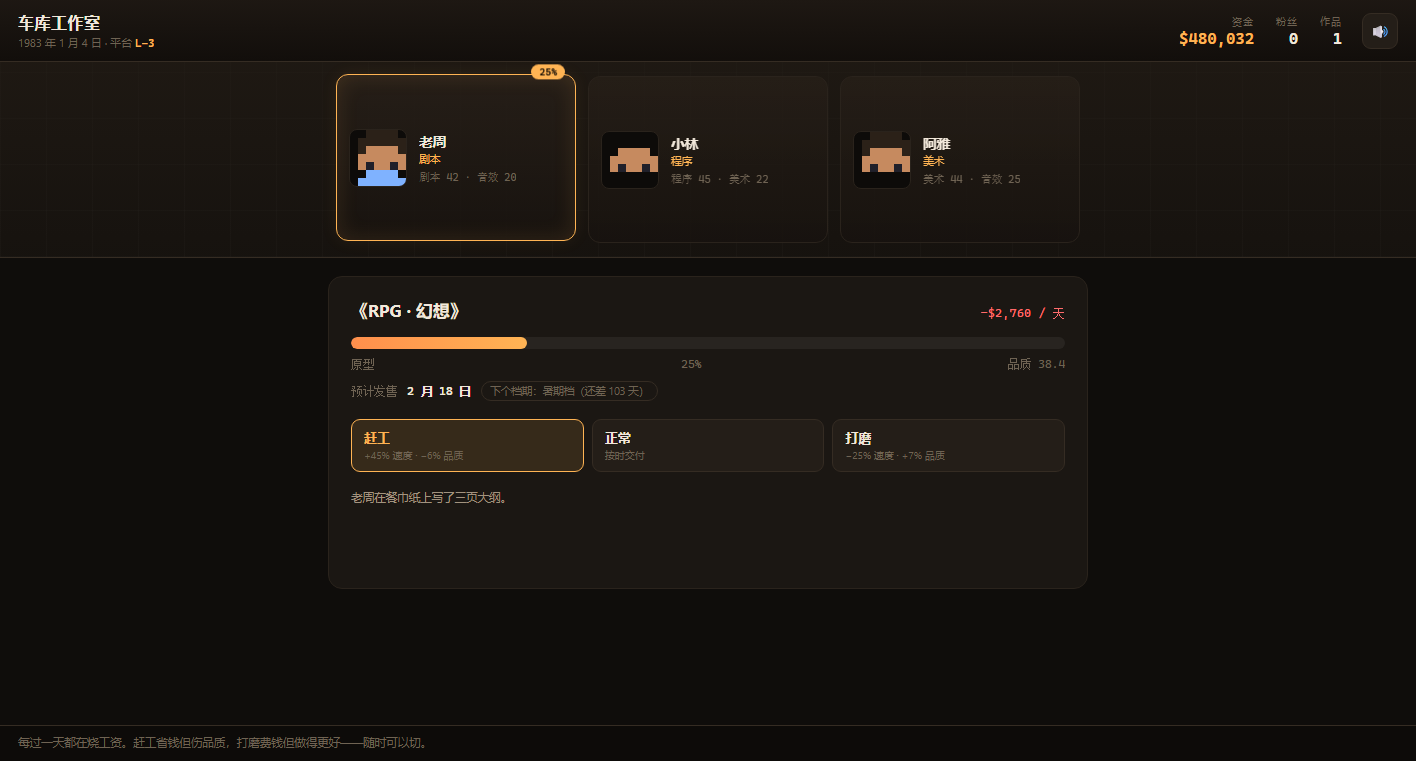
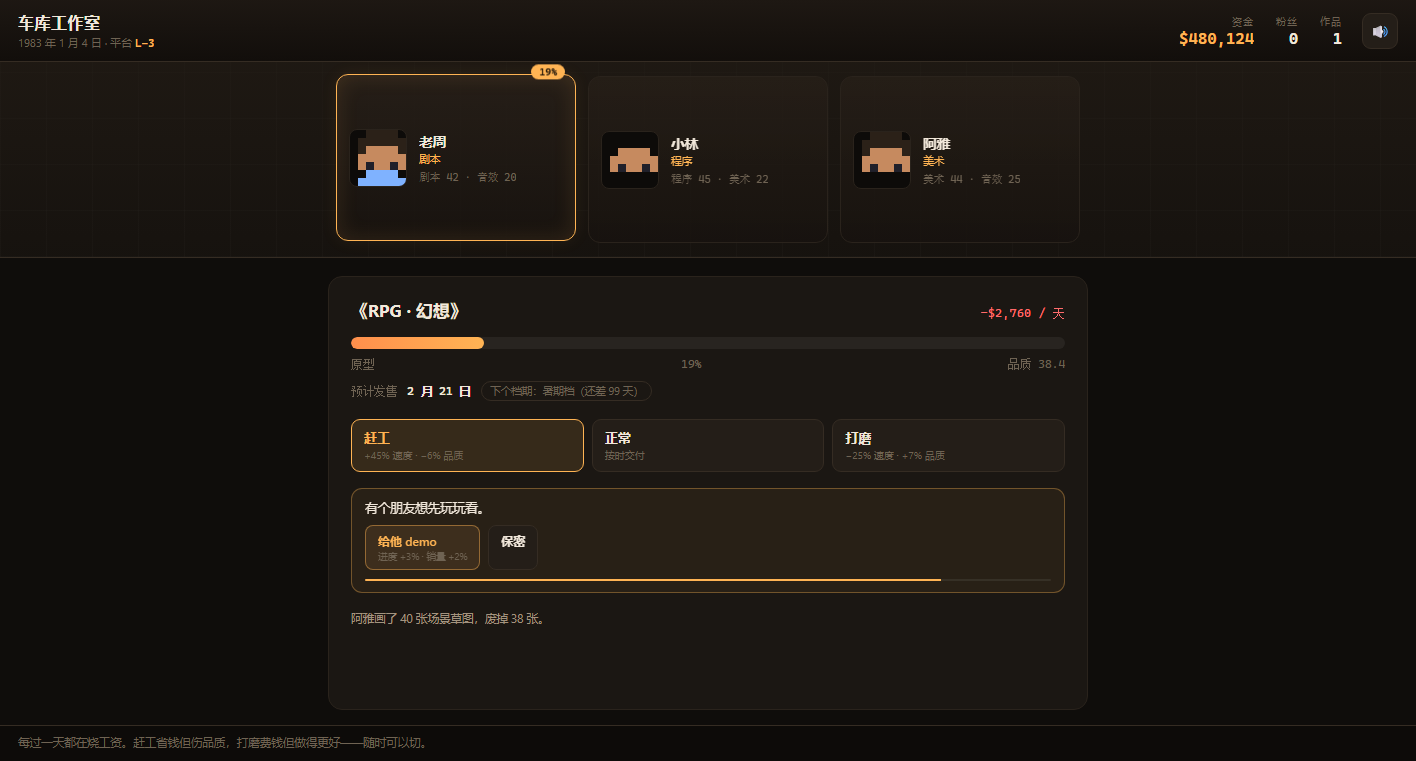
开发期小决定：8 个可选微事件，6 秒过期
- 开发到 15%/52%/88% 时出现，不打断、不惩罚错过
- 影响品质/进度/销量/金钱，全部写进开发日志
- 事件触发时自动清理，避免叠加
- 96 项引擎测试 + 42 项浏览器测试（直接跑 file://）

Changed region(s): [[0.2486, 0.6347, 0.7458, 0.816], [0.3418, 0.4231, 0.3729, 0.4836], [0.8701, 0.0302, 0.9011, 0.0604]]

diff --git a/js/config.js b/js/config.js
@@ -210,6 +210,76 @@
     }
   ];
 
+  /* ---------------- 小决定 ----------------
+   * 开发期间随机出现，不打断流程，几秒不理会自动消失。
+   * 纯可选：不选没有任何惩罚，选了有小收益也有小代价。 */
+  GD.MICRO = [
+    {
+      id: 'polish',
+      text: '小林说战斗手感还能再调调。',
+      options: [
+        { label: '让他改', quality: 3, progress: -2, tip: '品质 +3% · 进度 −2%', result: '小林把战斗手感重做了一遍，凌晨三点发来一句「爽了」。' },
+        { label: '先这样' }
+      ]
+    },
+    {
+      id: 'art',
+      text: '阿雅想给主角加一套走路动画，需要块新绘图板。',
+      options: [
+        { label: '买', cost: 8000, quality: 2, tip: '花 $8,000 · 品质 +2%', result: '新绘图板第二天就到了。阿雅画了一整天。' },
+        { label: '以后再说' }
+      ]
+    },
+    {
+      id: 'cut',
+      text: '老周提议砍掉一条支线，说没人会走。',
+      options: [
+        { label: '砍掉', progress: 4, quality: -2, tip: '进度 +4% · 品质 −2%', result: '支线被删了。老周在文档里留了一行「已归档」。' },
+        { label: '保留' }
+      ]
+    },
+    {
+      id: 'coffee',
+      text: '连熬三天，组里的气氛不太对。',
+      options: [
+        { label: '请全组吃顿好的', cost: 4000, quality: 1, tip: '花 $4,000 · 品质 +1%', result: '一顿火锅之后，办公室又有了笑声。' },
+        { label: '继续' }
+      ]
+    },
+    {
+      id: 'music',
+      text: '音效师说主题曲还能再来一版。',
+      options: [
+        { label: '再改一版', quality: 2, progress: -3, tip: '品质 +2% · 进度 −3%', result: '第三版主题曲定稿。前两版其实也没人听过。' },
+        { label: '用现在的' }
+      ]
+    },
+    {
+      id: 'demo',
+      text: '有个朋友想先玩玩看。',
+      options: [
+        { label: '给他 demo', progress: 3, sales: 2, tip: '进度 +3% · 销量 +2%', result: '朋友玩了两小时，提了 40 条建议，其中 3 条有用。' },
+        { label: '保密' }
+      ]
+    },
+    {
+      id: 'bugs',
+      text: '顺手能修掉几个小 bug。',
+      options: [
+        { label: '修', quality: 2, progress: -2, tip: '品质 +2% · 进度 −2%', result: '修完发现又冒出两个。经典。' },
+        { label: '留着' }
+      ]
+    },
+    {
+      id: 'fishing',
+      text: '有人提议加个钓鱼系统。',
+      options: [
+        { label: '加', quality: 1, progress: -4, sales: 3, tip: '品质 +1% · 进度 −4% · 销量 +3%', result: '钓鱼系统做了三天，成了后来玩家最喜欢的功能。' },
+        { label: '算了' }
+      ]
+    }
+  ];
+
   /* ---------------- 开发日志 ---------------- */
 
   GD.DEV_LOG = {
@@ -266,6 +336,8 @@
     devSeconds: 54,           // 正常速度下的开发时长（会被主创速度削减）
     speedFactor: 0.4,
     eventAts: [0.30, 0.72],   // 每部作品两次事件
+    microAt: [0.15, 0.52, 0.88],   // 小决定出现的进度点
+    microTtl: 6,                   // 不选就消失
 
     /* 压货等档期：每多等一天，仓储与资金占用成本 */
     storagePerDay: 900,

diff --git a/js/engine.js b/js/engine.js
@@ -95,6 +95,8 @@
       event: null,
       review: null,
       release: null,
+      micro: null,
+      microUid: 0,
       sales: null,
       lastEvent: null,
       lastResult: null,
@@ -122,6 +124,7 @@
       eventQualityPct: 0,
       salesPct: 0,
       eventsDone: 0,
+      microDone: 0,
       quality: 0,
       cost: BAL.license,
       log: [],
@@ -175,6 +178,31 @@
     s.lastEvent = { title: s.event.title, choice: opt.label, cost: opt.cost };
     s.event = null;
     s.phase = 'developing';
+    return true;
+  };
+
+  E.microChoice = function (s, index) {
+    if (!s.micro || s.phase !== 'developing') return false;
+    var o = s.micro.item.options[index];
+    if (!o) return false;
+    var cost = o.cost || 0;
+    if (cost > s.money) return false;
+
+    s.money -= cost;
+    s.project.cost += cost;
+    s.project.eventQualityPct += (o.quality || 0);
+    s.project.salesPct = (s.project.salesPct || 0) + (o.sales || 0);
+    if (o.progress) {
+      s.project.progress = Math.max(0.02, Math.min(0.99, s.project.progress + o.progress / 100));
+    }
+    if (o.result) s.project.log.push('· ' + o.result);
+    s.micro = null;
+    return true;
+  };
+
+  E.dismissMicro = function (s) {
+    if (!s.micro) return false;
+    s.micro = null;
     return true;
   };
 
@@ -386,6 +414,22 @@
         s.project.logAt++;
       }
 
+      /* 小决定：可选、不打断、过期作废 */
+      if (!s.micro && s.project.microDone < BAL.microAt.length &&
+        s.project.progress >= BAL.microAt[s.project.microDone]) {
+        s.project.microDone++;
+        s.micro = {
+          uid: ++s.microUid,
+          item: GD.MICRO[Math.floor(Math.random() * GD.MICRO.length)],
+          ttl: BAL.microTtl
+        };
+        out.push({ type: 'micro' });
+      }
+      if (s.micro) {
+        s.micro.ttl -= dt;
+        if (s.micro.ttl <= 0) s.micro = null;
+      }
+
       if (s.project.progress >= 1) {
         s.project.progress = 1;
         E.finishDev(s);
@@ -393,6 +437,7 @@
       } else if (s.project.eventsDone < BAL.eventAts.length &&
         s.project.progress >= BAL.eventAts[s.project.eventsDone]) {
         var when = s.project.eventsDone === 0 ? 'early' : 'late';
+        s.micro = null;
         s.event = pickEvent(s, when);
         s.project.eventsDone++;
         s.phase = 'event';
@@ -463,6 +508,7 @@
     s.project = null;
     s.review = null;
     s.release = null;
+    s.micro = null;
     s.sales = null;
     s.event = null;
     s.timer = 0;

diff --git a/js/ui.js b/js/ui.js
@@ -110,9 +110,17 @@
 
   function bind() {
     document.addEventListener('click', function (ev) {
-      var t = ev.target.closest('[data-act],[data-plan],[data-choice],[data-mode]');
+      var t = ev.target.closest('[data-act],[data-plan],[data-choice],[data-mode],[data-micro]');
       if (!t) return;
       GD.SFX.unlock();
+
+      var microAttr = t.getAttribute('data-micro');
+      if (microAttr != null) {
+        if (E.microChoice(s, Number(microAttr))) { GD.SFX.coin(); }
+        else { GD.SFX.click(); }
+        UI.render();
+        return;
+      }
 
       var modeAttr = t.getAttribute('data-mode');
       if (modeAttr) {
@@ -247,6 +255,16 @@
             }).join('');
           }
         }
+
+        if (s.micro) {
+          if (ui.microUid !== s.micro.uid) { ui.microUid = s.micro.uid; renderMicro(); }
+          var fill = byId('micro-fill');
+          if (fill) fill.style.width = Math.max(0, (s.micro.ttl / GD.BAL.microTtl) * 100) + '%';
+        } else if (ui.microUid) {
+          ui.microUid = null;
+          var mEl = byId('micro');
+          if (mEl) mEl.hidden = true;
+        }
       }
     } else if (s.phase === 'review') {
       updateReview();
@@ -330,10 +348,26 @@
       '<button data-mode="normal" class="on"><b>正常</b><small>按时交付</small></button>' +
       '<button data-mode="polish"><b>打磨</b><small>−25% 速度 · +7% 品质</small></button>' +
       '</div>' +
+      '<div class="micro" id="micro" hidden></div>' +
       '<div class="devlog" id="devlog"></div>' +
       '</div>';
     el.hint.textContent = '每过一天都在烧工资。赶工省钱但伤品质，打磨费钱但做得更好——随时可以切。';
     ui.logCount = -1;
+    ui.microUid = null;
+  }
+
+  function renderMicro() {
+    var box = byId('micro');
+    if (!box || !s.micro) return;
+    var it = s.micro.item;
+    var html = '<div class="micro-text">' + esc(it.text) + '</div><div class="micro-acts">';
+    it.options.forEach(function (o, i) {
+      html += '<button data-micro="' + i + '"><b>' + esc(o.label) + '</b>' +
+        (o.tip ? '<small>' + esc(o.tip) + '</small>' : '') + '</button>';
+    });
+    html += '</div><div class="micro-timer"><i id="micro-fill"></i></div>';
+    box.innerHTML = html;
+    box.hidden = false;
   }
 
   /* ---------------- 事件 ---------------- */

diff --git a/tools/test.js b/tools/test.js
@@ -194,6 +194,59 @@ function playOne(s, plan, choice) {
   ok('事件能影响销量预估', low < base * 0.85, low + ' vs ' + base);
 })();
 
+/* ---------- 小决定 ---------- */
+(function () {
+  var plan = { genre: 'rpg', theme: 'fantasy', leader: 'zhou' };
+  var s = E.newGame();
+  E.startProject(s, plan);
+
+  var guard = 0;
+  while (!s.micro && guard++ < 5000) E.tick(s, 1 / 30);
+  ok('开发中会出现小决定', !!s.micro, s.micro ? s.micro.item.text : '');
+  ok('小决定有选项', s.micro.item.options.length >= 1);
+
+  var ttl0 = s.micro.ttl;
+  E.tick(s, 1);
+  ok('小决定会倒计时', s.micro.ttl < ttl0);
+
+  var money0 = s.money;
+  guard = 0;
+  while (s.micro && guard++ < 3000) E.tick(s, 1 / 30);
+  ok('不理会就自动消失', s.micro === null);
+  ok('过期不扣钱', s.money === money0 || s.money < money0);
+})();
+
+(function () {
+  var plan = { genre: 'rpg', theme: 'fantasy', leader: 'zhou' };
+  var s = E.newGame();
+  E.startProject(s, plan);
+  var guard = 0;
+  while (!s.micro && guard++ < 5000) E.tick(s, 1 / 30);
+
+  var opt = s.micro.item.options[0];
+  var money0 = s.money;
+  var cost0 = s.project.cost;
+  var q0 = s.project.eventQualityPct;
+  var s0 = s.project.salesPct;
+  var log0 = s.project.log.length;
+
+  ok('可以选择小决定', E.microChoice(s, 0) === true && s.micro === null);
+  ok('小决定按选项扣钱', s.money === money0 - (opt.cost || 0));
+  ok('小决定计入成本', s.project.cost === cost0 + (opt.cost || 0));
+  ok('小决定影响品质或销量',
+    s.project.eventQualityPct !== q0 || s.project.salesPct !== s0,
+    'q ' + q0 + '→' + s.project.eventQualityPct);
+  ok('小决定写进开发日志', s.project.log.length > log0);
+
+  // 大事件会清掉小决定
+  var s2 = E.newGame();
+  E.startProject(s2, plan);
+  s2.micro = { uid: 999, item: GD.MICRO[0], ttl: 5 };
+  s2.project.progress = 0.2999;
+  E.tick(s2, 1 / 30);
+  ok('大事件会清掉小决定', s2.micro === null && s2.phase === 'event');
+})();
+
 /* ---------- 评审 ---------- */
 (function () {
   var s = E.newGame();

diff --git a/css/style.css b/css/style.css
@@ -648,3 +648,45 @@ button:focus-visible { outline: 2px solid var(--accent); outline-offset: 2px; }
   .rel-options { grid-template-columns: 1fr; }
   .rel-head { flex-direction: column; gap: 2px; }
 }
+
+/* ============ 小决定 ============ */
+
+.micro {
+  margin-top: 16px;
+  padding: 11px 13px;
+  border: 1px solid rgba(255, 180, 84, .35);
+  border-radius: 11px;
+  background: rgba(255, 180, 84, .06);
+  animation: micro-in .25s ease both;
+}
+@keyframes micro-in { from { opacity: 0; transform: translateY(-4px); } to { opacity: 1; transform: none; } }
+
+.micro-text { font-size: 12.5px; color: var(--text); margin-bottom: 9px; }
+.micro-acts { display: flex; gap: 8px; }
+.micro-acts button {
+  display: flex;
+  flex-direction: column;
+  align-items: flex-start;
+  gap: 1px;
+  padding: 7px 12px;
+  font-size: 12px;
+  border-radius: 8px;
+}
+.micro-acts button b { font-weight: 600; }
+.micro-acts button small { font-size: 9.5px; color: var(--dim2); }
+.micro-acts button:first-child { border-color: rgba(255, 180, 84, .45); color: var(--accent); background: rgba(255, 180, 84, .1); }
+
+.micro-timer {
+  margin-top: 9px;
+  height: 2px;
+  border-radius: 1px;
+  background: rgba(255, 255, 255, .07);
+  overflow: hidden;
+}
+.micro-timer i {
+  display: block;
+  height: 100%;
+  width: 100%;
+  background: var(--accent);
+  transition: width .1s linear;
+}

diff --git a/tools/e2e.js b/tools/e2e.js
@@ -187,6 +187,20 @@ function connect(wsUrl) {
   var logCount = await evalJs(`({ lines: document.querySelectorAll('#devlog .line').length, text: (document.querySelector('#devlog .line') || {}).textContent || '' })`);
   check('开发日志在滚动', logCount.lines > 0, logCount.text.slice(0, 20));
 
+  var micro = await evalJs(`({
+    visible: !document.querySelector('#micro').hidden,
+    text: (document.querySelector('.micro-text') || {}).textContent || '',
+    btns: document.querySelectorAll('[data-micro]').length
+  })`);
+  check('出现小决定', micro.visible === true && micro.btns >= 1, micro.text);
+
+  if (micro.visible) {
+    await evalJs(`document.querySelector('[data-micro="0"]').click()`);
+    await sleep(250);
+    var microAfter = await evalJs(`({ hidden: document.querySelector('#micro').hidden })`);
+    check('小决定可以处理', microAfter.hidden === true);
+  }
+
   /* ---------- 5. 事件 ---------- */
   await evalJs(`(() => { const s = GD.getState(); s.project.progress = 0.31; })()`);
   await sleep(250);

diff --git a/tools/shots.js b/tools/shots.js
@@ -101,7 +101,7 @@ function connect(wsUrl) {
   /* 2. 开发中（档位 + 日志） */
   await evalJs(`document.querySelector('[data-act="go"]').click()`);
   await sleep(700);
-  await evalJs(`(() => { const s = GD.getState(); if (s.phase === 'developing') s.project.progress = 0.22; })()`);
+  await evalJs(`(() => { const s = GD.getState(); if (s.phase === 'developing') s.project.progress = 0.16; })()`);
   await sleep(600);
   await evalJs(`document.querySelector('[data-mode="crunch"]').click()`);
   await sleep(400);

diff --git a/README.md b/README.md
@@ -17,7 +17,7 @@ node tools/serve.js
 
 ```
 企划（选类型 × 题材 × 主创）
-  → 开发 42 秒：按天烧工资，随时切「赶工 / 正常 / 打磨」
+  → 开发 42 秒：按天烧工资，随时切「赶工 / 正常 / 打磨」，中间有 2 次事件 + 3 次小决定
   → 评审：四位评论家逐个亮分，总分 40
   → 发售决策：立即发售，还是压货等档期（暑期 ×1.25 / 年末 ×1.40）
   → 销售：12 周，每周结算一次，可追加一次广告
@@ -32,7 +32,9 @@ node tools/serve.js
 
 ## M0 有什么
 
-- 5 类型 × 5 题材（25 格相性）、3 名员工（老周/小林/阿雅）、4 位评委、4 个开发事件
+- 5 类型 × 5 题材（25 格相性）、3 名员工（老周/小林/阿雅）、4 位评委
+- 11 个开发事件（分早期/后期两池）+ 8 个可选小决定
+- 档期：暑期 ×1.25 / 年末 ×1.40，可压货等档期
 - 追加广告、资金不足时找发行商预支
 - WebAudio 合成的 8-bit 音效（点击、亮分、总分、周结算），可静音
 - 程序化生成的像素小人
